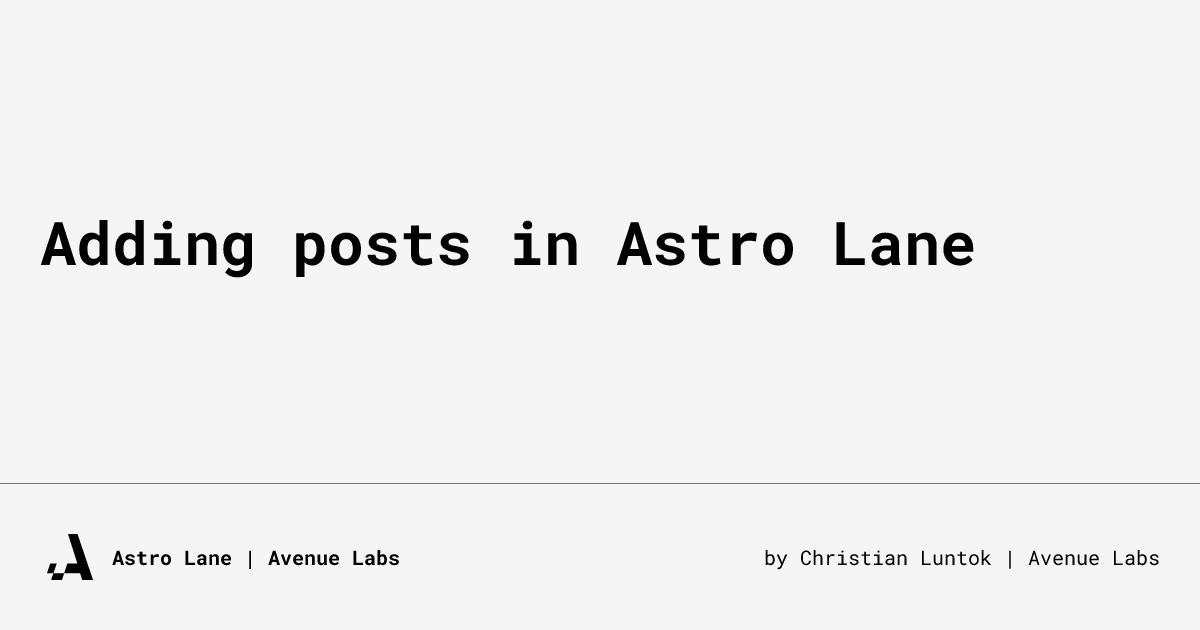
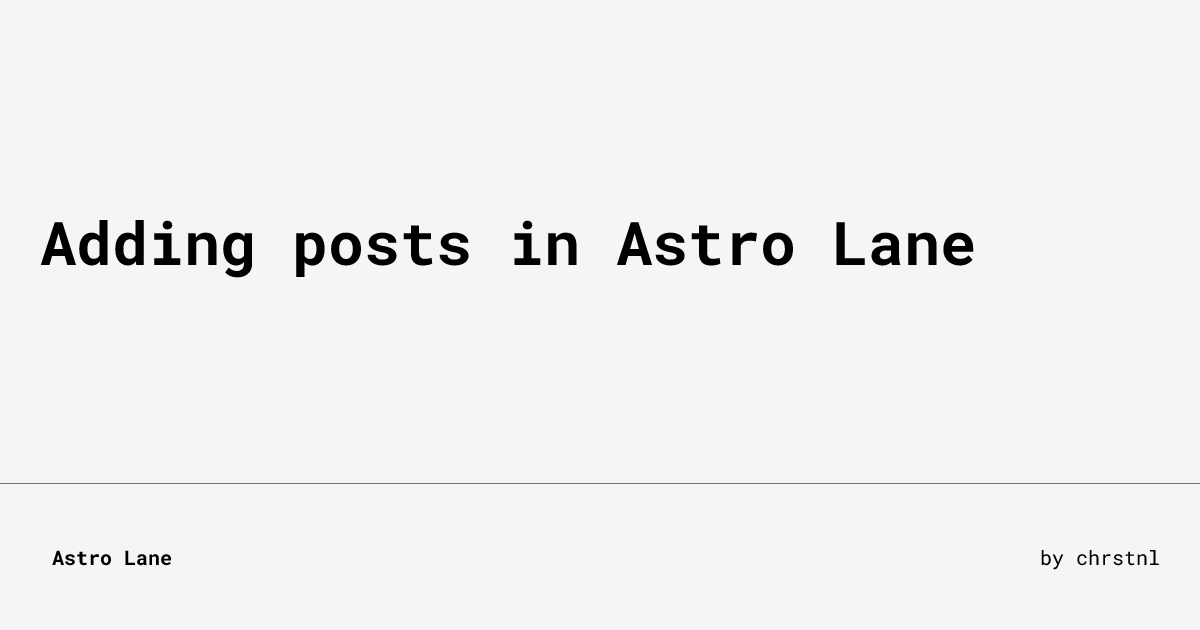
chore: replaced files and content.

Changed region(s): [[0.0308, 0.8444, 0.3392, 0.9349], [0.6167, 0.8746, 0.9867, 0.9048]]

diff --git a/src/utils/generateOgImage.tsx b/src/utils/generateOgImage.tsx
@@ -71,23 +71,6 @@ const ogImage = (text: string) => {
                         alignItems: "center"
                     }}
                 >
-                    <svg
-                        style={{
-                            width: "60px",
-                            height: "60px"
-                        }}
-                        width="260"
-                        height="260"
-                        viewBox="0 0 260 260"
-                        fill="none"
-                        xmlns="http://www.w3.org/2000/svg"
-                    >
-                        <path
-                            d="M44.1732 158.636L30 200.915H58.084L48.1103 230H95.0919L104.541 200.915H58.084L72.2572 158.636H44.1732ZM162.546 30H121.339L162.021 158.636H118.451L104.541 200.915H173.832L183.018 230H230L162.546 30Z"
-                            fill="#000"
-                        ></path>
-                    </svg>
-
                     <p
                         style={{
                             marginLeft: "12px",

diff --git a/src/config.ts b/src/config.ts
@@ -3,10 +3,10 @@
 import type { Site, SocialMediaObjects } from "./types";
 
 export const SITE: Site = {
-    siteUrl: "https:/www.astro-lane.avenuelabs.co/", // Always put "/" at the end of the URL
-    author: "Christian Luntok | Avenue Labs",
-    desc: "A personal portfolio landing template for developers and designers. Made by Avenue Labs.",
-    title: "Astro Lane | Avenue Labs",
+    siteUrl: "https:/astro-lane.chrstnl.co/", // Always put "/" at the end of the URL
+    author: "chrstnl",
+    desc: "A personal portfolio landing template for developers and designers.",
+    title: "Astro Lane",
     ogImage: "images/astro-lane.png",
     keywords:
         "Personal portfolio, landing page, page template, developer portfoliom designer portfolio",

diff --git a/src/styles/globals.scss b/src/styles/globals.scss
@@ -4,9 +4,9 @@
 * Avenue CSS Kit v0.1
 =========================================================
 
-* Demo Page: 'https://astro-lane.avenuelabs.co/'
-* Copyright 2023 Christian Luntok - Avenue Labs
-* Coded by Christian Luntok - Avenu Labs
+* Demo Page: 'https://astro-lane.chrstnl.com/'
+* Copyright 2023 @chrstnl
+* Coded by @chsrtnl
 
 =========================================================
 
